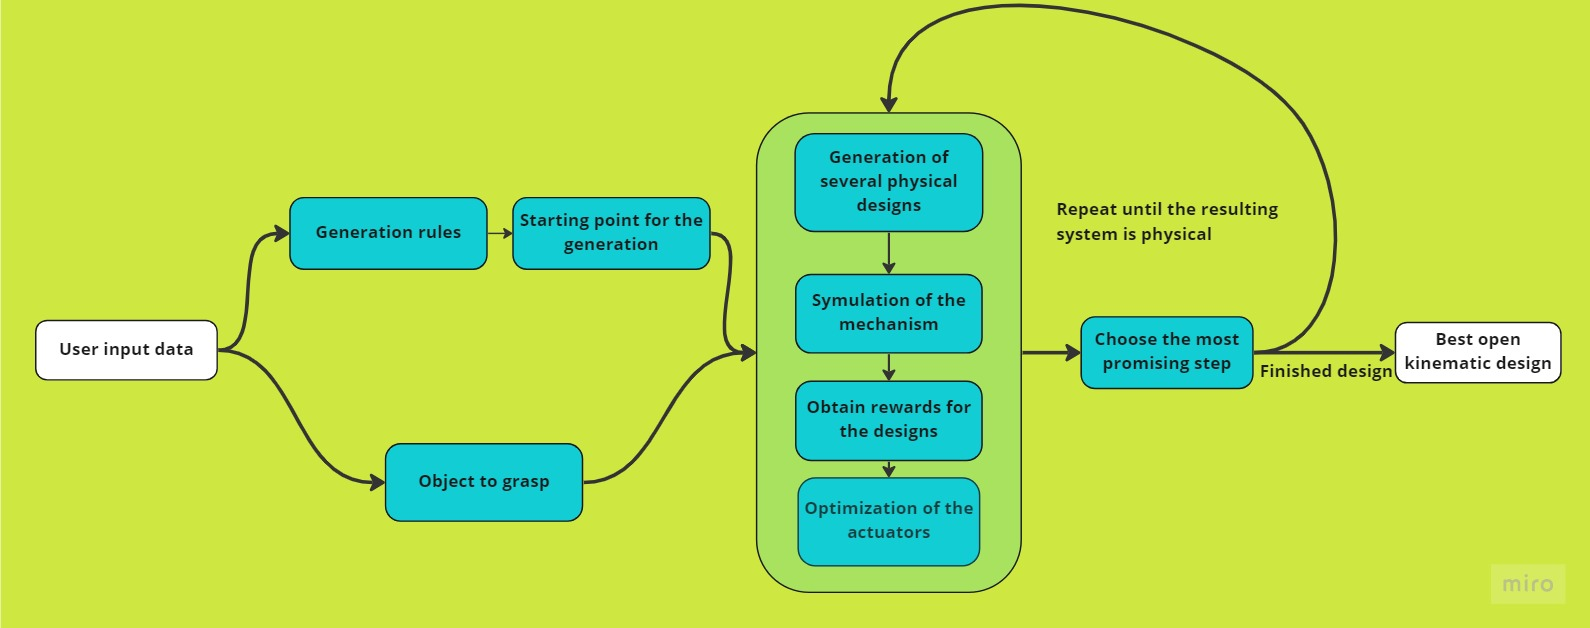
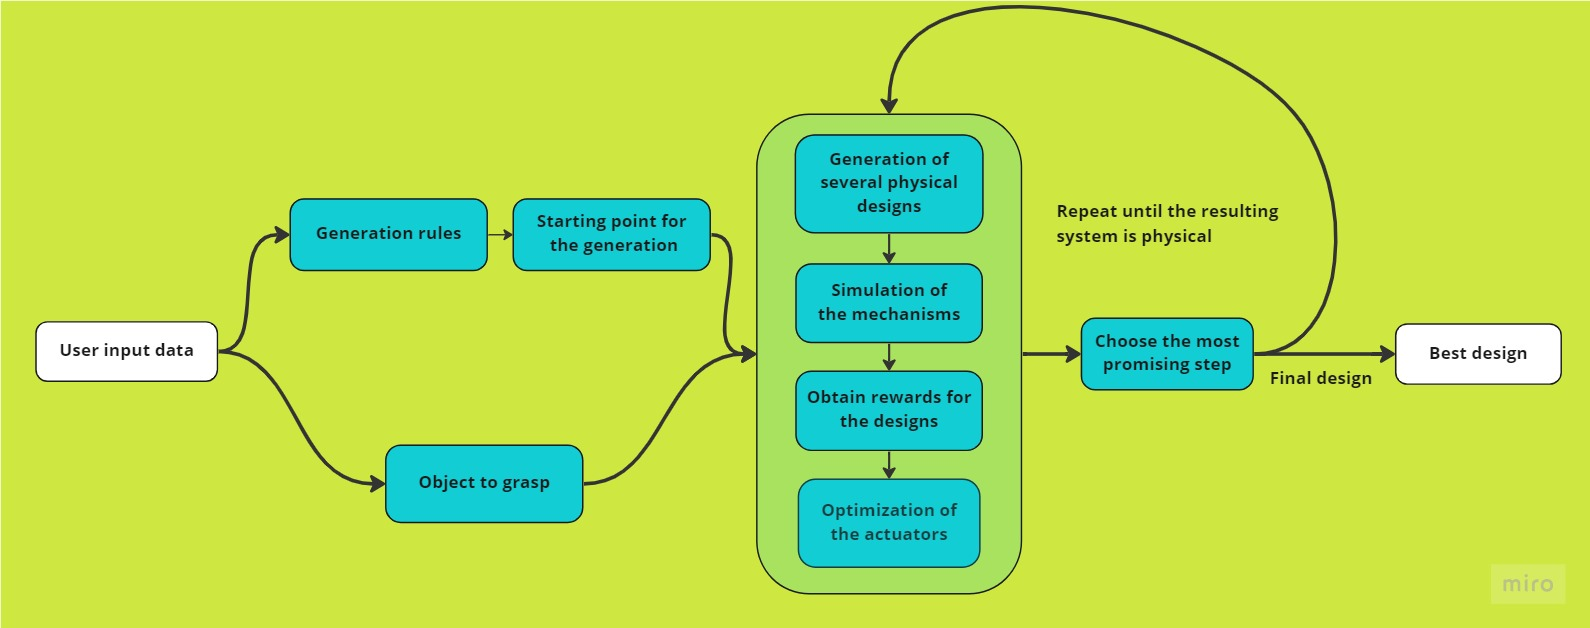
text edit

diff --git a/README.md b/README.md
@@ -2,18 +2,20 @@
 
 # Rostok
 
-Rostok is an open source Python framework for generative design of linkage mechanisms for robotic purposes. It provides a framework to describe mechanisms as a graph, set the environment, perform simulation of the mechanism, get simulation reward and start the search for the best design. User can use the whole pipeline to get from nodes/details specification to the result of the search algorithm or use the individual modules. Library flexible design allows a user to implement custom generative rules and search algorithms. 
+Rostok is an open source Python framework for generative design of linkage mechanisms for robotic purposes. It provides a framework to describe mechanisms as a graph, set an environment, perform simulation of generated mechanisms, get a reward as a quantitative value of the generated design, and search for the best possible design. 
 
-Currently, the generative co-design is mainly used in production of the static systems, while our project goal is to shift the generative design to the domain of the dynamic systems.
+A user can utilize the entire framework as a pipeline to generate a set of suboptimal designs, or utilize the modules and submodules as independent parts. The framework allows to implement custom generative rules, modify search and optimization algorithms. 
+
+Currently the framework allows to perform co-design of open chain linkage mechanisms. Co-design consists in simultaneously searching for the mechanical structure and the trajectories of the robot to get the best possible performance. 
 
 ## Project desription
 
 There are four main blocks:  
 
-* Graph grammar - build, modification and get information from the graphs that contains full information of the mechanism
-* Virtual experiment - simulate the mechanism specified by the graph and get the reward for the attempt to grasp the body
-* Trajectory optimization - search for the optimal control of the mechanism in order to solve the task  
-* Search algorithm - traverse the space of the possible designs in order to achieve the better reward
+* Graph Grammar -- is needed for creation, modification, and extraction of the data from the graphs that contain the entire information of generated mechanisms
+* Virtual Experiment -- is the simulation needed for quantitative analysis of the behavior  and performance of generated mechanisms specified by grammar graphs
+* Trajectory Optimization -- finds suboptimal joint trajectories needed to efficiently perform the desired motion
+* Search Algorithm -- looks for optimal graph to represent mechanism topology
 
 ![project_general](./docs/images/general_scheme.jpg)
 ![project_algorithm](./docs/images/Algorithm_shceme.jpg)
